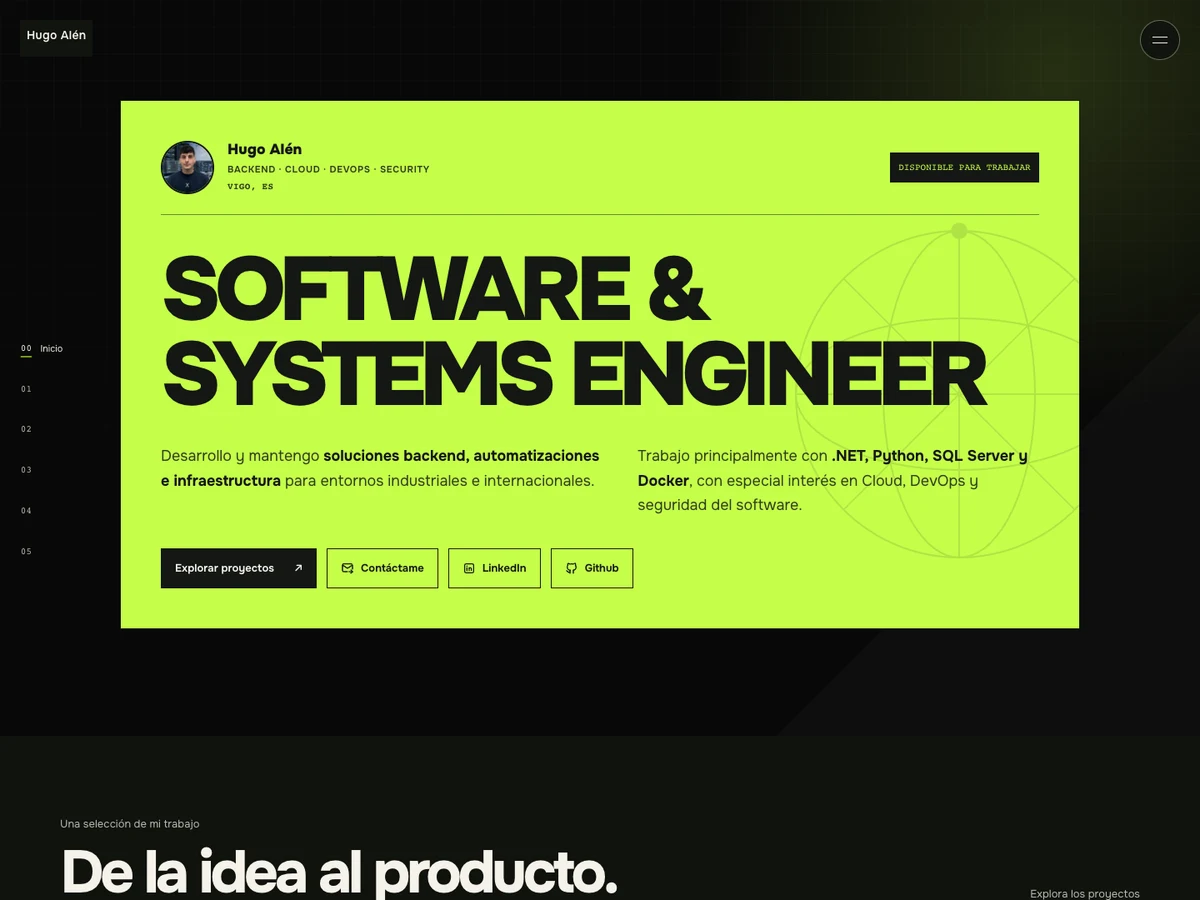
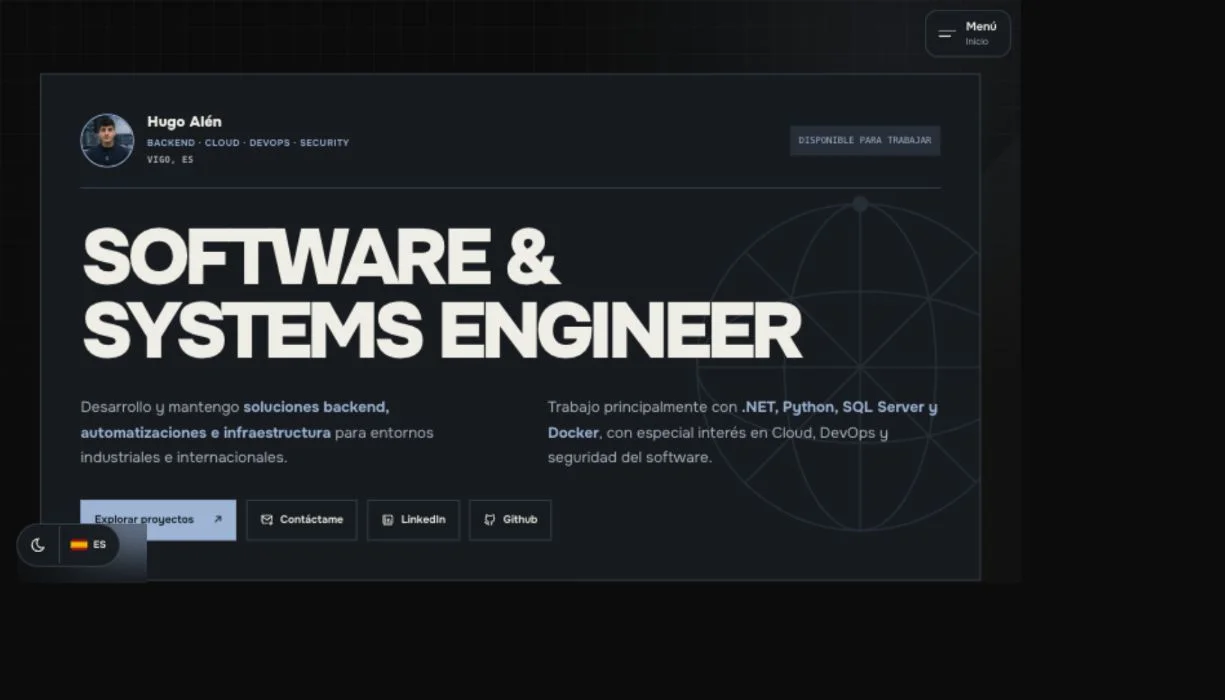
Readme nuevo

diff --git a/README.md b/README.md
@@ -6,7 +6,7 @@ Reúne mi experiencia, proyectos personales, formación y vías de contacto. Inc
 
 **[Ver portfolio](https://hugoalen.vercel.app/)**
 
-[![Vista actual del portfolio de Hugo Alén: presentación profesional, navegación y experiencia en modo oscuro](./public/portfolio.webp)](https://hugoalen.vercel.app/)
+[![Portfolio de Hugo Alén: presentación profesional en modo oscuro con acento azul acero y navegación responsive](./public/portfolio.webp)](https://hugoalen.vercel.app/)
 
 ## Funcionalidades
 
